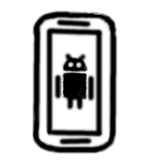
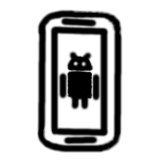
Update inventory and ui.

diff --git a/core/src/com/room/game/stage1/Stage1.kt b/core/src/com/room/game/stage1/Stage1.kt
@@ -33,8 +33,12 @@ class Stage1(private val stageUiHandler: StageUiHandler) : Stage, EventHandler.L
     override var musicOn = true
         set(value) {
             if (value) {
+                stageUiHandler.removeScreenItem(SoundOffItem)
+                stageUiHandler.addScreenItem(SoundOnItem)
                 stageUiHandler.startMusic()
             } else {
+                stageUiHandler.removeScreenItem(SoundOnItem)
+                stageUiHandler.addScreenItem(SoundOffItem)
                 stageUiHandler.stopMusic()
             }
             field = value
@@ -69,7 +73,7 @@ class Stage1(private val stageUiHandler: StageUiHandler) : Stage, EventHandler.L
         currentScreen.rightScreen?.also {
             stageUiHandler.addScreenItem(RightArrowItem)
         }
-        stageUiHandler.addScreenItem(MusicItem)
+        stageUiHandler.addScreenItem(if (musicOn) SoundOnItem else SoundOffItem)
 
         inventory.redraw()
         stageUiHandler.fadeOut()
@@ -309,7 +313,7 @@ class Stage1(private val stageUiHandler: StageUiHandler) : Stage, EventHandler.L
             Event.LEFT_ARROW_CLICKED -> setCurrentScreen(ArrowDirection.LEFT)
             Event.RIGHT_ARROW_CLICKED -> setCurrentScreen(ArrowDirection.RIGHT)
             Event.DOWN_ARROW_CLICKED -> setCurrentScreen(ArrowDirection.DOWN)
-            Event.ICON_MUSIC_CLICKED -> { musicOn = !musicOn }
+            Event.ICON_SOUND_CLICKED -> { musicOn = !musicOn }
 
             // Inventory items
 
@@ -370,13 +374,22 @@ class Stage1(private val stageUiHandler: StageUiHandler) : Stage, EventHandler.L
             event = Event.DOWN_ARROW_CLICKED
     )
 
-    object MusicItem : ScreenItem(
-            drawable = Drawable("title_screen_sound.jpg"),
+    object SoundOnItem : ScreenItem(
+            drawable = Drawable("sound_on.jpg"),
             x = 50f,
             y = 930f,
             width = 100f,
             height = 100f,
-            event = Event.ICON_MUSIC_CLICKED
+            event = Event.ICON_SOUND_CLICKED
+    )
+
+    object SoundOffItem : ScreenItem(
+            drawable = Drawable("sound_off.jpg"),
+            x = 50f,
+            y = 930f,
+            width = 100f,
+            height = 100f,
+            event = Event.ICON_SOUND_CLICKED
     )
 }
 

diff --git a/core/src/com/room/game/core/Inventory.kt b/core/src/com/room/game/core/Inventory.kt
@@ -17,7 +17,6 @@ class Inventory(private val uiHandler: StageUiHandler) {
                 uiHandler.playSound(Sound("ui_button_click.wav"))
                 val selectedScreenItem = SelectedScreenItem(it.second.x, it.second.y)
                 uiHandler.addScreenItem(selectedScreenItem)
-                uiHandler.moveScreenItemToBottom(selectedScreenItem)
                 this.selectedScreenItem = selectedScreenItem
             }
         }
@@ -58,9 +57,9 @@ class Inventory(private val uiHandler: StageUiHandler) {
     }
 
     data class SelectedScreenItem(val itemX: Float, val itemY: Float) : ScreenItem(
-            drawable = Drawable("locker_screen_phone.png"), //TODO: change
-            x = itemX,
-            y = itemY,
+            drawable = Drawable("item_selected.png"),
+            x = itemX - 20,
+            y = itemY - 20,
             width = 200f,
             height = 200f,
             event = null

diff --git a/core/src/com/room/game/RoomEscape.kt b/core/src/com/room/game/RoomEscape.kt
@@ -170,11 +170,6 @@ class RoomEscape : ApplicationAdapter(), StageUiHandler {
         }, 0.1f)
     }
 
-    override fun moveScreenItemToBottom(screenItem: ScreenItem) {
-        val actor = screenItems.getValue(screenItem)
-        actor.first.zIndex = 0
-    }
-
     override fun addTemporaryScreenText(screenText: ScreenText) {
         val style = Label.LabelStyle()
         style.font = font

diff --git a/core/src/com/room/game/core/StageUiHandler.kt b/core/src/com/room/game/core/StageUiHandler.kt
@@ -4,7 +4,6 @@ interface StageUiHandler {
 
     fun addScreenItem(screenItem: ScreenItem)
     fun removeScreenItem(screenItem: ScreenItem)
-    fun moveScreenItemToBottom(screenItem: ScreenItem)
 
     fun addTemporaryScreenText(screenText: ScreenText)
     fun addScreenText(screenText: ScreenText)

diff --git a/core/src/com/room/game/stage1/Event.kt b/core/src/com/room/game/stage1/Event.kt
@@ -5,7 +5,7 @@ enum class Event {
     // Title screen
 
     START_GAME,
-    ICON_MUSIC_CLICKED,
+    ICON_SOUND_CLICKED,
 
     // Tablet screen
 
